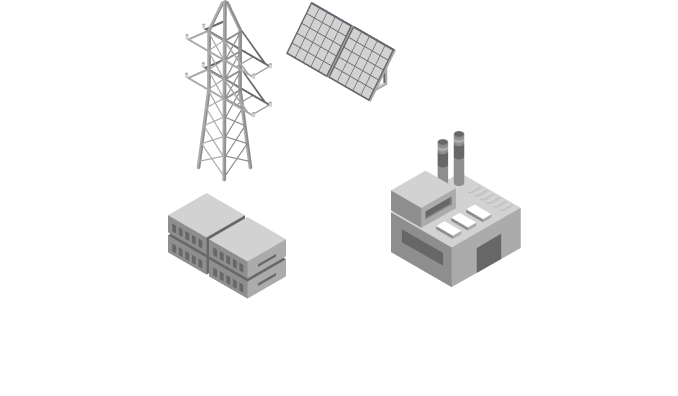
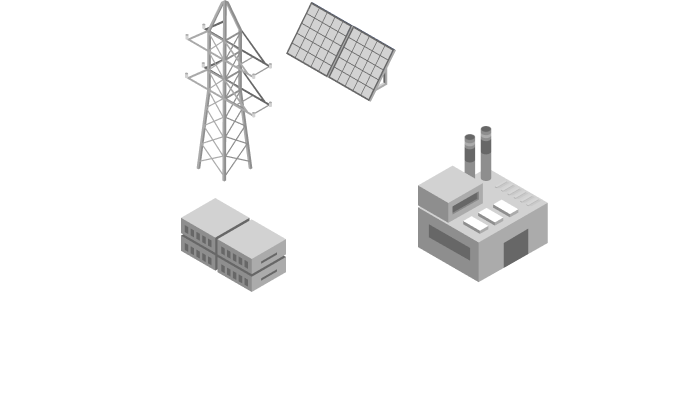
adjust overview flow

Changed region(s): [[0.5575, 0.303, 0.8053, 0.7273], [0.2478, 0.4848, 0.4336, 0.7576], [0.3407, 0.5455, 0.3717, 0.5758]]

diff --git a/src/app/overview/page.tsx b/src/app/overview/page.tsx
@@ -63,16 +63,24 @@ export default function Overview() {
 
             <div className="w-full overflow-x-scroll">
                 <div className="relative w-[680px] h-[396px] mt-10 mb-6 mx-auto">
-                    {/* {themeReady
-                    ? <img src={`/images/overview${theme === 'dark' ? '-dark.png' : '.png'}`} alt="" className="w-full h-auto mx-auto mt-10" />
-                    : <img src={`/images/overview.png`} alt="" className="mx-auto mt-10" />
-                } */}
                     <img src={`/images/overview-vector.png`} alt="" className="absolute w-full h-full mx-auto z-10" />
                     {themeReady
                         ? <img src={`/images/overview-grid-base${theme === 'dark' ? '-dark.png' : '.png'}`} alt="" className="w-full h-full mx-auto" />
                         : <img src={`/images/overview-grid-base.png`} alt="" className="w-full h-full mx-auto" />
                     }
-                    <div className="flex absolute top-[200px] left-[254px] w-[62px] h-[2.5px] mx-auto bg-[#D2D2D2] dark:bg-[#8E8E8E] rotate-[30deg] overflow-x-hidden">
+                    {/* Grid to bess */}
+                    <div className="flex absolute top-[200px] left-[256px] w-[62px] h-[2.5px] mx-auto bg-[#D2D2D2] dark:bg-[#8E8E8E] rotate-[30deg] overflow-x-hidden">
+                        <motion.div
+                            className="absolute w-4 h-full bg-[#abab00] dark:bg-[#FFFF00]"
+                            initial={{ x: -10 }}
+                            animate={{ x: 100 }}
+                            transition={{ duration: 1.5, ease: "linear", repeat: Infinity }}
+                        ></motion.div>
+                    </div>
+
+
+                    {/* to end user */}
+                    <div className="absolute top-[190px] left-[380px] w-[62px] h-[2.5px] mx-auto bg-[#D2D2D2] dark:bg-[#8E8E8E] rotate-[30deg] overflow-hidden">
                         <motion.div
                             className="absolute w-4 h-full bg-color-third dark:bg-color-third-dark"
                             initial={{ x: -10 }}
@@ -80,26 +88,19 @@ export default function Overview() {
                             transition={{ duration: 1.5, ease: "linear", repeat: Infinity }}
                         ></motion.div>
 
-                        {/* <motion.div
-                        className="absolute w-4 h-full bg-[#5d70d1]"
-                        initial={{ x: 100 }}
-                        animate={{ x: -10 }}
-                        transition={{ duration: 1.5, ease: "linear", repeat: Infinity }}
-                    ></motion.div> */}
-                    </div>
-
-                    <div className="absolute top-[190px] left-[380px] w-[62px] h-[2.5px] mx-auto bg-[#D2D2D2] dark:bg-[#8E8E8E] rotate-[30deg] overflow-hidden">
+                        {/* Solar */}
                         <motion.div
-                            className="w-4 h-full bg-color-third dark:bg-color-third-dark"
-                            initial={{ x: -10 }}
+                            className="absolute w-4 h-full bg-[#8080ff] dark:bg-[#dadaff]"
+                            initial={{ x: -15 }}
                             animate={{ x: 100 }}
-                            transition={{ duration: 1.5, ease: "linear", repeat: Infinity }}
+                            transition={{ duration: 1.5, ease: "linear", repeat: Infinity, delay: 2 }}
                         ></motion.div>
                     </div>
 
+                    {/* pv */}
                     <div className="absolute top-[120px] left-[396px] w-[62px] h-[2.5px] mx-auto bg-[#D2D2D2] dark:bg-[#8E8E8E] rotate-[30deg] overflow-hidden">
                         <motion.div
-                            className="w-4 h-full bg-color-third dark:bg-color-third-dark"
+                            className="w-4 h-full bg-[#8080ff] dark:bg-[#dadaff]"
                             initial={{ x: -10 }}
                             animate={{ x: 100 }}
                             transition={{ duration: 1.5, ease: "linear", repeat: Infinity }}
@@ -114,6 +115,36 @@ export default function Overview() {
                             animate={{ y: 110 }}
                             transition={{ duration: 1.5, repeat: Infinity }}
                         ></motion.div>
+
+                        {/* pv */}
+                        <motion.div
+                            className="absolute w-full h-4 bg-[#8080ff] dark:bg-[#dadaff]"
+                            initial={{ y: 15 }}
+                            animate={{ y: 82 }}
+                            transition={{ duration: 1.5, repeat: Infinity, delay: 0.8 }}
+                        ></motion.div>
+
+                        {/* pv */}
+                        {/* <motion.div
+                            className="absolute w-full h-4 bg-color-third dark:bg-[#dadaff] z-10"
+                            initial={{ y: 82 }}
+                            animate={{ y: 250 }}
+                            transition={{ duration: 2, ease: "linear", repeat: Infinity, delay: 1.6 }}
+                        ></motion.div> */}
+
+                        {/* Grid to bess */}
+                        <div
+                            className="absolute bottom-[36px] w-full h-[50px] bg-[#D2D2D2] dark:bg-[#8E8E8E] overflow-y-hidden">
+                            <motion.div
+                                className="absolute w-full h-4 bg-[#abab00] dark:bg-[#FFFF00]"
+                                // initial={{ y: 173 }}
+                                // animate={{ y: 250 }}
+                                initial={{ y: -20 }}
+                                animate={{ y: 100 }}
+                                transition={{ duration: 1.5, ease: "linear", repeat: Infinity, delay: 0.8 }}
+                            ></motion.div>
+                        </div>
+
                     </div>
                 </div>
             </div>
@@ -196,6 +227,6 @@ export default function Overview() {
                     </Card>
                 </div>
             </div>
-        </div>
+        </div >
     )
 }
